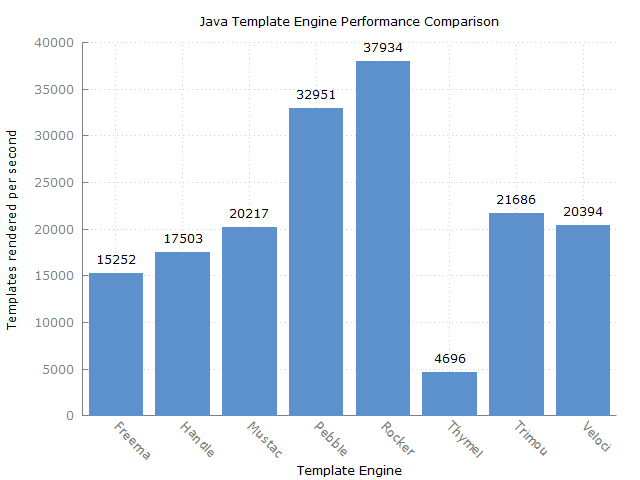
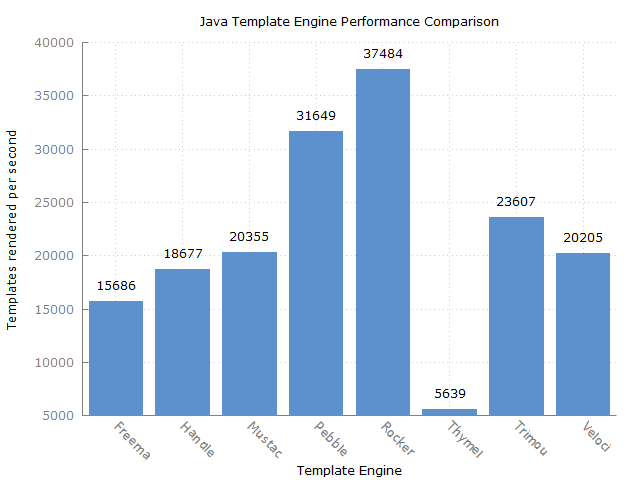
new

diff --git a/src/main/java/com/mitchellbosecke/benchmark/Freemarker.java b/src/main/java/com/mitchellbosecke/benchmark/Freemarker.java
@@ -21,7 +21,7 @@ public class Freemarker extends BaseBenchmark {
 
     @Setup
     public void setup() throws IOException {
-        Configuration configuration = new Configuration(Configuration.VERSION_2_3_22);
+        Configuration configuration = new Configuration(Configuration.VERSION_2_3_24);
         configuration.setTemplateLoader(new ClassTemplateLoader(getClass(), "/"));
         template = configuration.getTemplate("templates/stocks.freemarker.html");
         this.context = getContext();
